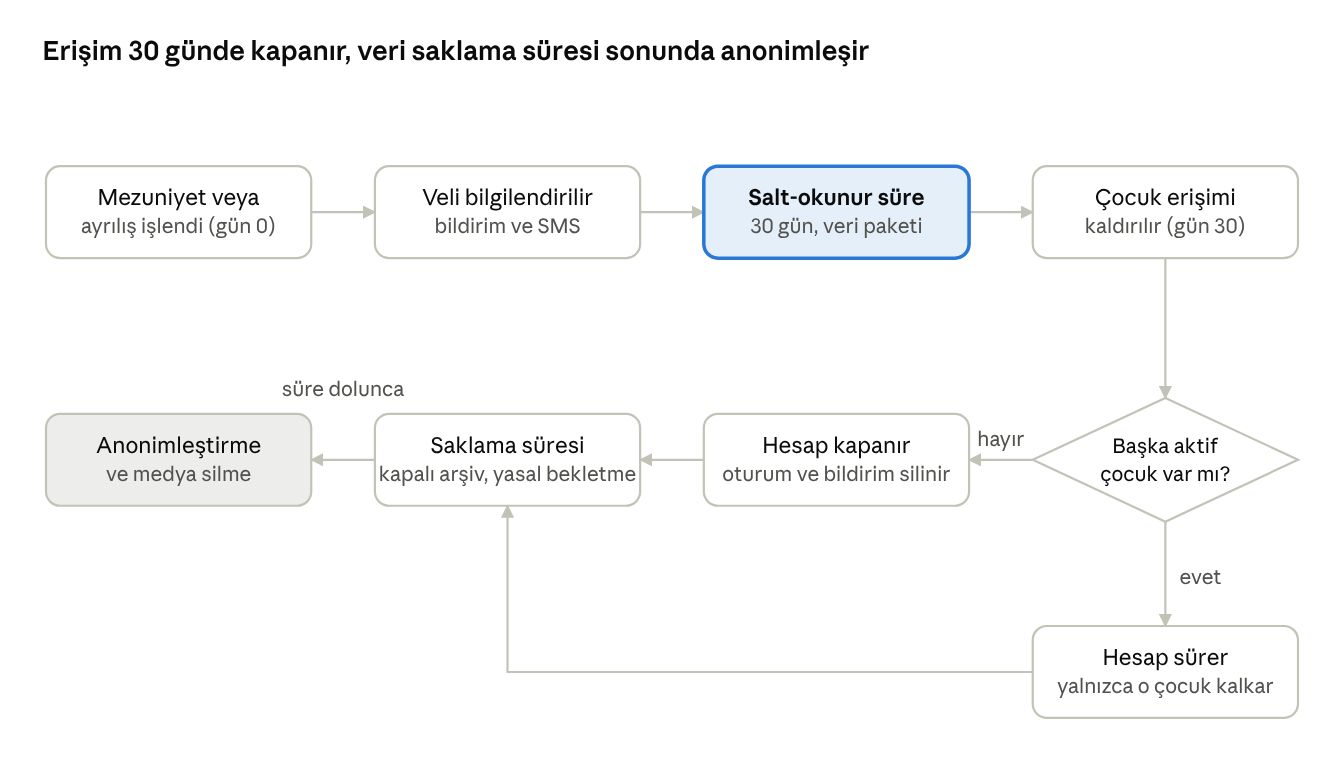
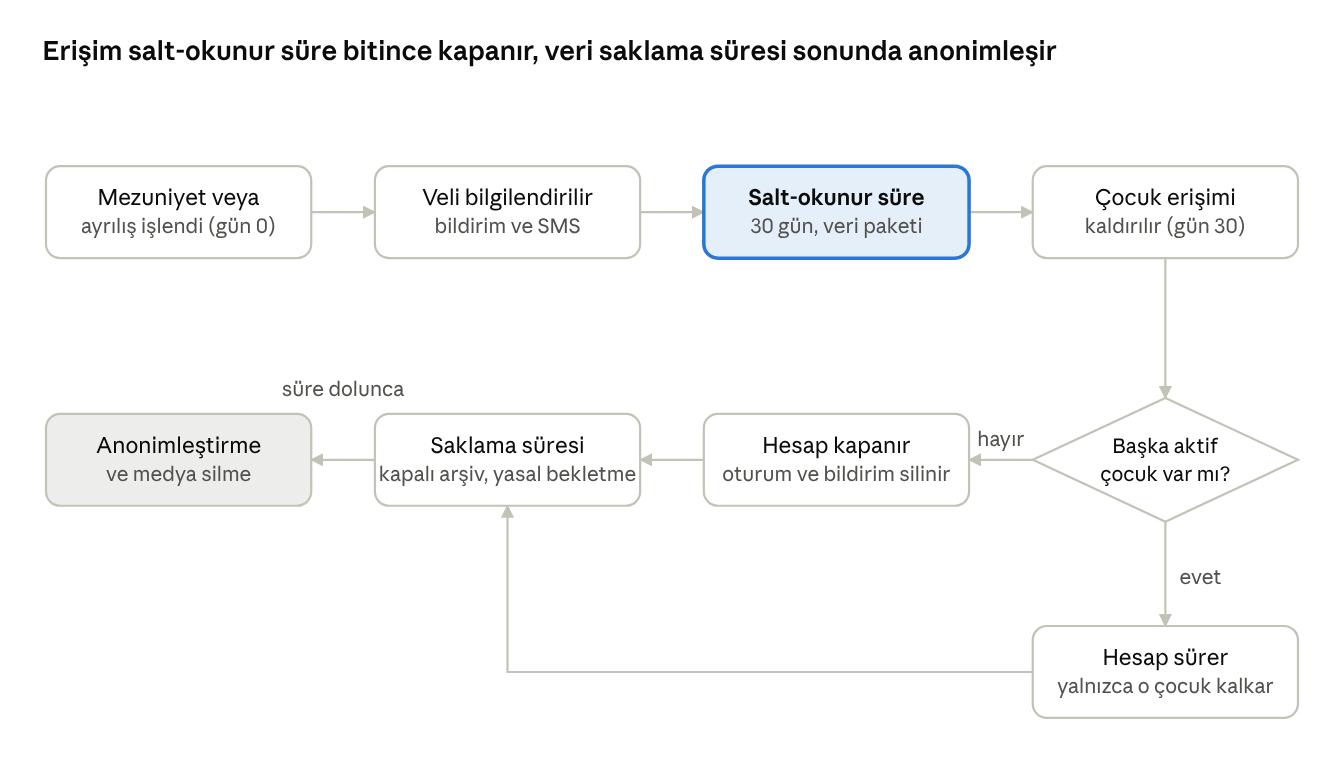
Doküman tutarsızlıklarını canlı dokümanla hizala
Canlı Claude Doc'ta yapılan düzeltmeler Docs/ klasörüne aktarıldı:
- 04 kural 17: çevrimdışı çakışmada giriş zamanı en yeni olan kazanır
  (Kesişen Konular ve R8 ile aynı kural)
- 00 ve 06: faz kapı kriterleri iki tabloda birebir aynı
- Yol haritası çizimi: MVP 6–7 ay, Kapı 2 veli aktivasyonu %85
- Mimari çizimi: Redis önbellek ve hız sınırı (kuyruk PostgreSQL'de)
- Mezuniyet çizimi başlığı: erişim salt-okunur süre bitince kapanır

Changed region(s): [[0.0938, 0.031, 0.7812, 0.093]]

diff --git a/Docs/00-genel-bakis.md b/Docs/00-genel-bakis.md
@@ -128,10 +128,10 @@ MVP tek okulda pilotla doğrulanır; sonraki fazlar tüm okullara yayılmış bi
 
 | Faz | Modüller | Çıktı | Kapı kriteri |
 | --- | --- | --- | --- |
-| Faz 0 Hazırlık | – | 2 okulda kullanıcı araştırması, tasarım sistemi, KVKK metinleri (hukuk görüşü), mağaza hesapları, mimari karar kaydı | Kapsam ve mimari onayı, KVKK metinleri hazır |
-| MVP (Faz 1) | 01 Organizasyon, 02 Kullanıcılar, 03 Öğrenci, 04 Devamlılık, 05 Mesajlaşma, 06 Duyurular, 07 Gelişim (temel), 08 Mezuniyet, 09 Bildirimler ve temel raporlar, 10 Web paneli (çekirdek) | Mağazalarda yayınlanmış uygulama, bir okulda pilot | Pilot okulda veli hesap aktivasyonu en az %85 (ilk 30 gün), yoklama tamamlama en az %95, açık kritik hata yok |
-| Faz 2 | 07 Gelişim (tam: portfolyo, onay, görüşme), 06 Takvim, etkinlik, izin formu, randevu; 11 Sağlık ve ilaç; gelişmiş raporlar; çevrimdışı sağlamlaştırma | Tüm okullarda yaygın kullanım | Tüm okullar canlı, dönem raporu kapsaması %100 |
-| Faz 3 | 12 Günlük rapor ve medya galerisi, 13 Yemek menüsü ve servis, 14 aday modüller (aidat, ön kayıt) | Günlük akış ve ek hizmetler | Aidat için ödeme sağlayıcı ve muhasebe kararı |
+| Faz 0 Hazırlık | – | 2 okulda kullanıcı araştırması, tasarım sistemi, KVKK metinleri (hukuk görüşü), mağaza hesapları, mimari karar kaydı | Kapsam ve mimari onayı (proje sahibi); KVKK metinleri hazır; açık soruların en az %80'i kararlaştırılmış |
+| MVP (Faz 1) | 01 Organizasyon, 02 Kullanıcılar, 03 Öğrenci, 04 Devamlılık, 05 Mesajlaşma, 06 Duyurular, 07 Gelişim (temel), 08 Mezuniyet, 09 Bildirimler ve temel raporlar, 10 Web paneli (çekirdek) | Mağazalarda yayınlanmış uygulama, bir okulda pilot | Pilot okulda veli hesap aktivasyonu en az %85 (ilk 30 gün); yoklama tamamlama en az %95; açık kritik hata yok; KVKK uyum kontrolü geçti |
+| Faz 2 | 07 Gelişim (tam: portfolyo, onay, görüşme), 06 Takvim, etkinlik, izin formu, randevu; 11 Sağlık ve ilaç; gelişmiş raporlar; çevrimdışı sağlamlaştırma | Tüm okullarda yaygın kullanım | Tüm okullarda aktivasyon en az %85; dönem raporu kapsaması %100; sağlık verisi rıza oranı ölçüldü |
+| Faz 3 | 12 Günlük rapor ve medya galerisi, 13 Yemek menüsü ve servis, 14 aday modüller (aidat, ön kayıt) | Günlük akış ve ek hizmetler | Medya depolama maliyeti bütçede; aday modüllerin kabulü değişiklik kurulunda (aidat için ödeme sağlayıcı ve muhasebe kararı Faz 3'e giriş koşuludur) |
 
 ## Varsayımlar ve alınan kararlar
 

diff --git a/Docs/06-yol-haritasi.md b/Docs/06-yol-haritasi.md
@@ -38,7 +38,7 @@ Süreler yaklaşıktır ve Kaba büyüklük bölümündeki ekip varsayımına da
 
 | Faz | Süre (yaklaşık) | Modüller ve işler | Çıktılar | Çıkış kriteri |
 | --- | --- | --- | --- | --- |
-| Faz 0 Hazırlık | 4–6 hafta | 2 okulda kullanıcı araştırması (10 veli, 6 öğretmen, 2 müdür); kapsam onayı; tasarım sistemi ve ana akış prototipleri; mimari karar kayıtları; KVKK metinleri (hukuk); SMS ve bulut sağlayıcı seçimi; mağaza hesapları | Onaylı kapsam, prototip, mimari kararlar, KVKK metinleri | Proje sahibi onayı; açık soruların en az %80'i kararlaştırılmış |
+| Faz 0 Hazırlık | 4–6 hafta | 2 okulda kullanıcı araştırması (10 veli, 6 öğretmen, 2 müdür); kapsam onayı; tasarım sistemi ve ana akış prototipleri; mimari karar kayıtları; KVKK metinleri (hukuk); SMS ve bulut sağlayıcı seçimi; mağaza hesapları | Onaylı kapsam, prototip, mimari kararlar, KVKK metinleri | Kapsam ve mimari onayı (proje sahibi); KVKK metinleri hazır; açık soruların en az %80'i kararlaştırılmış |
 | MVP (Faz 1) | 6–7 ay | 01–10 (MVP kapsamı); test otomasyonu; güvenlik testi; pilot okul kurulumu ve eğitimi | Mağazalarda yayınlanmış uygulama, web paneli, canlı ortamda 1 okulla 8 haftalık pilot | Pilot okulda veli hesap aktivasyonu en az %85 (ilk 30 gün); yoklama tamamlama en az %95; açık kritik hata yok; KVKK uyum kontrolü geçti |
 | Faz 2 | 3–4 ay | 07 tam sürüm; 06 takvim, izin formu, randevu; 11 Sağlık; 09 gelişmiş raporlar; çevrimdışı sağlamlaştırma; 10 öğretmen web erişimi; tüm okullara yaygınlaştırma | Tüm okullar canlı | Tüm okullarda aktivasyon en az %85; dönem raporu kapsaması %100; sağlık verisi rıza oranı ölçüldü |
 | Faz 3 | 3–5 ay | 12 Günlük rapor ve medya galerisi; 13 Menü ve servis biniş-iniş; 14 aday modüller (aidat, ön kayıt); servis canlı konum değerlendirmesi | Günlük akış ve ek hizmetler | Medya depolama maliyeti bütçede; aday modüllerin kabulü değişiklik kurulunda (aidat için ödeme sağlayıcı ve muhasebe kararı Faz 3'e giriş koşuludur) |

diff --git a/Docs/moduller/04-devamlilik-takibi.md b/Docs/moduller/04-devamlilik-takibi.md
@@ -84,7 +84,7 @@ Modül her okul gününde her aktif çocuğun okulda olup olmadığını, ne zam
 **Çevrimdışı**
 
 16. Yoklama ekranı sınıf listesini önbellekler; bağlantı yokken girilen yoklama cihazda saklanır, bağlantı gelince gönderilir. Kesinleşme saati gönderim saati değil, giriş saatidir.
-17. Aynı sınıf için iki cihazdan çakışan girişte son gönderilen kazanır; önceki giriş değişiklik geçmişinde kalır ve iki öğretmene de bildirilir.
+17. Aynı sınıf için iki cihazdan çakışan girişte sunucu saatine göre düzeltilmiş giriş zamanı en yeni olan kazanır (varış sırası değil); önceki giriş değişiklik geçmişinde kalır ve iki öğretmene de bildirilir.
 
 ## Süreç akışı
 
